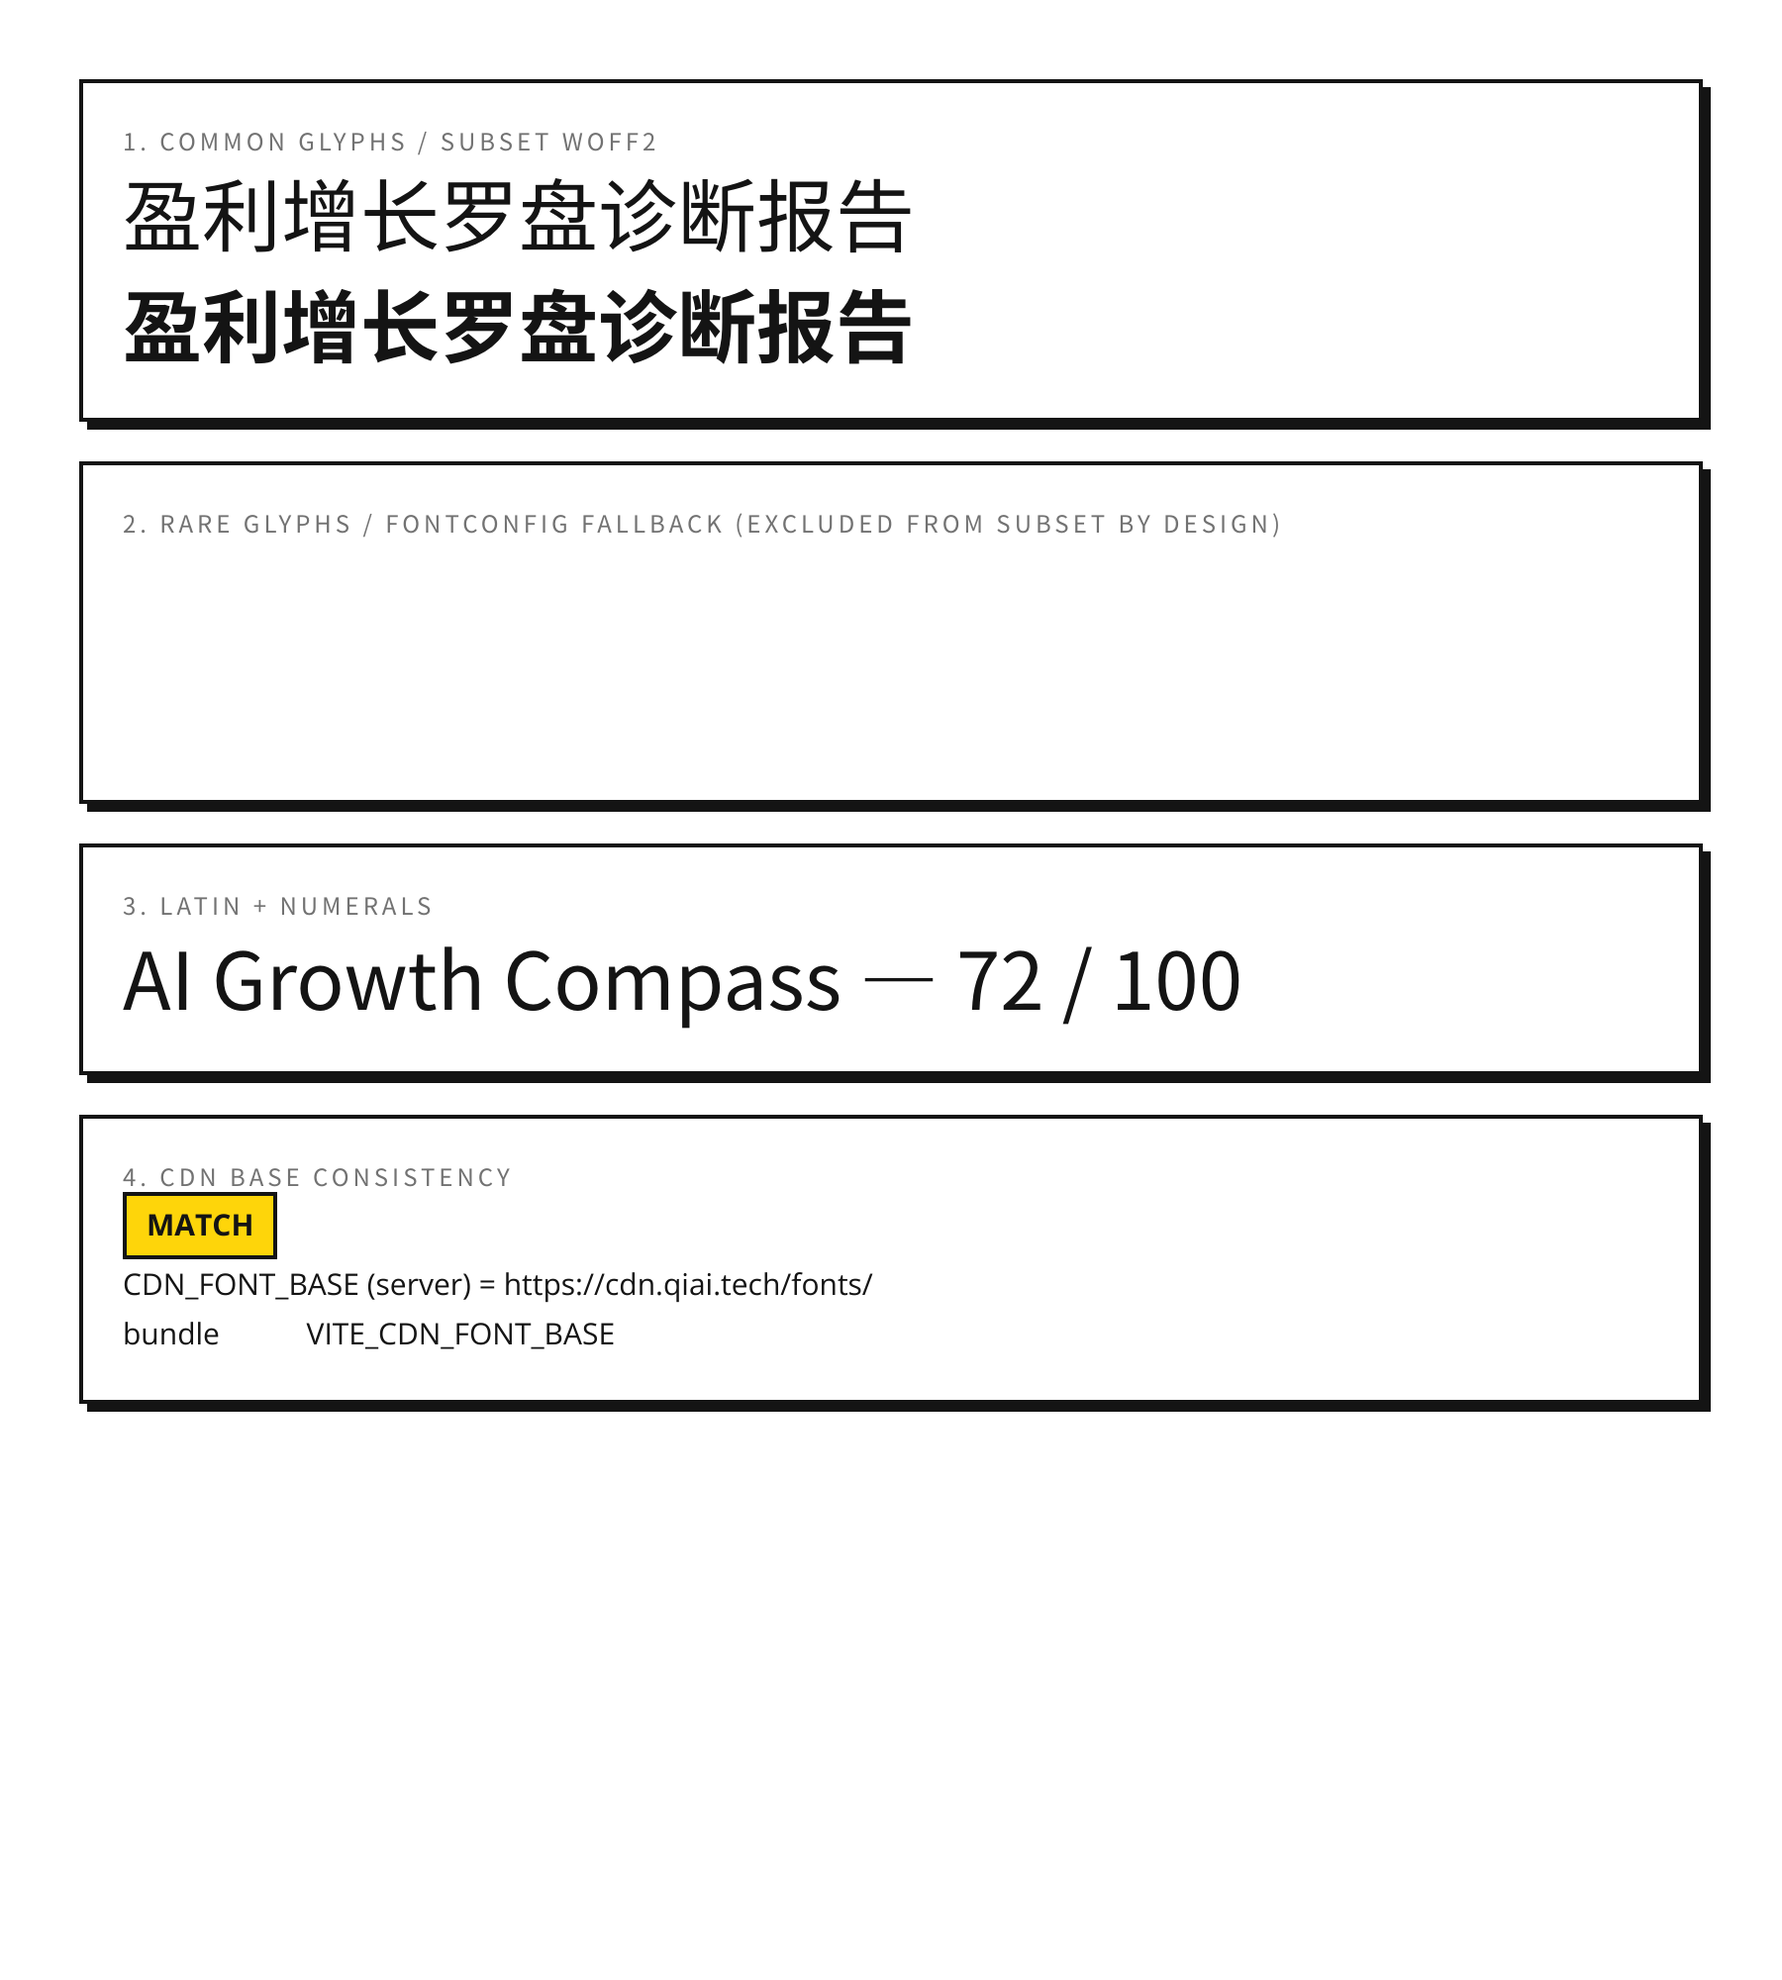
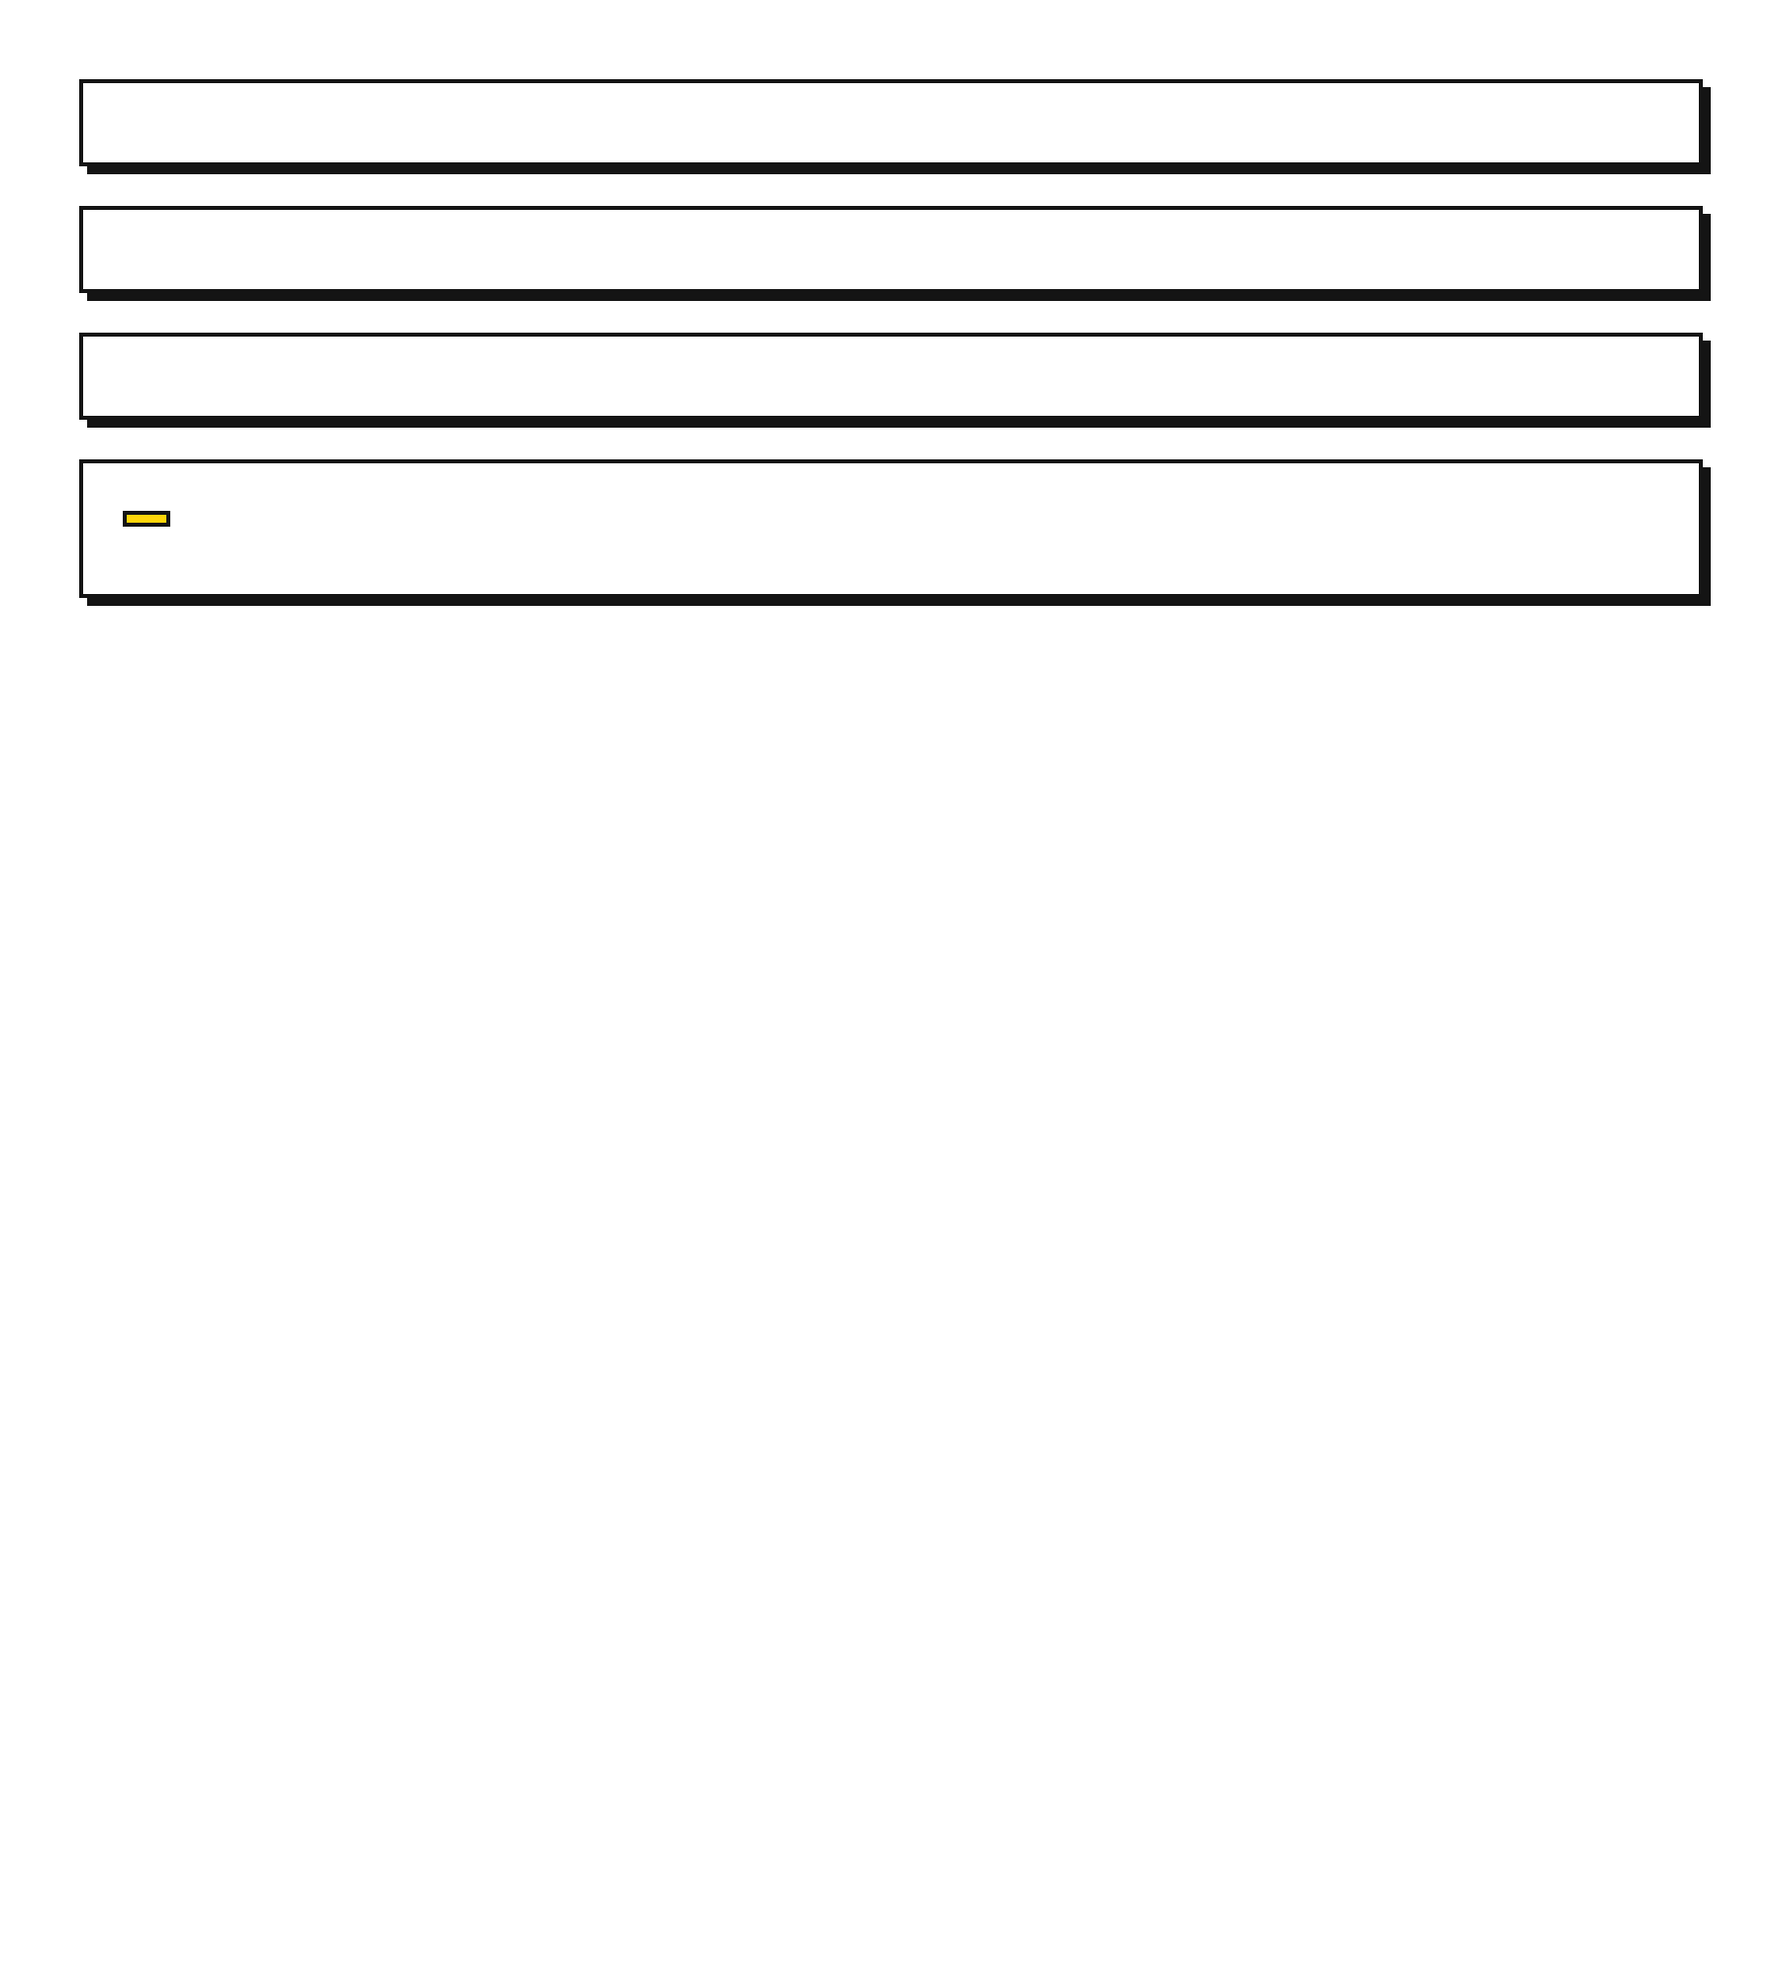
fix(fonts): install the fallback AFTER executablePath (my regression broke all fonts)
上一轮修完探针从「第 2 块空白」变成四块全空,连拉丁字母都没了——我引入的,比修之前严重。

根因不是清缓存,是 mkdirSync 抢跑。lambdafs.inflate() 解压 fonts.tar.br 的第一件事是
`if (existsSync('/tmp/fonts')) return resolve()` —— 目录已存在就整个跳过。而 fonts.tar.br
里装着 fonts.conf 本身与 Open_Sans 那套拉丁字形。上一版在 chromium.font() 阶段就
mkdirSync('/tmp/fonts'),早于 executablePath() 的解压 ⇒ fonts.conf 永远不落地 ⇒
FONTCONFIG_PATH 指向一个没有配置文件的目录 ⇒ fontconfig 一个字体目录都没有 ⇒ 全空。

这次回归印证了客户一条观察:第 1、3 块原来的正常渲染确实依赖 fontconfig(Open_Sans 提供
实际字形),不只是 CSS webfont——之前的理解不完整。

三处修:
1. 顺序:字体安装移到 executablePath() 之后,两个调用点都改。
2. 前提断言:installFallbackFont() 进来先检查 /tmp/fonts/fonts.conf 是否存在,不存在直接抛
   并说明「本函数被提前调用了」。与其静默弄坏整个字体子系统,不如在这里失败。
3. 不再清 fontconfig 缓存:不需要(fontconfig 发现 mtime 变化会自己重建索引),删 cachedir
   只增加「重建失败就全盘降级」的风险面。少做一件事。

日志现在打出 /tmp/fonts 在动它之前和之后的目录内容(客户要求的那两个时刻),下次异常一眼
能看出是「fonts.conf 在不在」还是「otf 复制成不成功」。

Node 206 / Deno 117,七道门全绿。

Changed region(s): [[0.0311, 0.248, 0.9644, 0.713], [0.0311, 0.062, 0.9644, 0.186], [0.1867, 0.589, 0.2178, 0.62]]

diff --git a/api/_lib/lambdaEnv.ts b/api/_lib/lambdaEnv.ts
@@ -79,15 +79,23 @@ export function assertChromiumEnvReady(): void {
 /**
  * 把中文兜底字体装进 **fontconfig 真的会扫的目录**,并校验落地。
  *
- * 【为什么不能只调 chromium.font()】它写到 `$HOME/.fonts/`(HOME 默认 `/tmp`),
- * 而这个包自带的 `fonts.conf`(bin/fonts.tar.br → /tmp/fonts/fonts.conf)只列:
- *     /var/task/.fonts  /var/task/fonts  /opt/fonts  /tmp/fonts
- * **没有 /tmp/.fonts。** 所以字体会「下载成功但从未被 fontconfig 索引」——
- * 实测症状:生僻字渲染成纯空白(不是方块),而常用字正常(那走的是页面 HTTP 加载的
- * subset woff2,与 fontconfig 无关)。空白比方块更难发现:它看起来只是排版稀疏一点。
+ * ⚠⚠ 【必须在 `chromium.executablePath()` 之后调用 —— 顺序是这个函数的正确性前提】
  *
- * 【为什么两个函数共用这一份】font-probe 与 render-pdf 走同一条路径,而 font-probe
- * 正是我们判断兜底层好坏的那把尺 —— 两份实现迟早只改一处。
+ * `lambdafs.inflate()` 解压 `fonts.tar.br` 时的第一件事是:
+ *     if (existsSync('/tmp/fonts')) return resolve();   // 目录已存在 ⇒ 整个跳过
+ * 而 `fonts.tar.br` 里装着 **`fonts.conf` 本身**(以及 Open_Sans 那套拉丁字形)。
+ *
+ * 上一版在 `chromium.font()` 阶段就 `mkdirSync('/tmp/fonts')`,而那**早于**
+ * `executablePath()` 的解压 —— 于是 `fonts.conf` 永远不会落地,`FONTCONFIG_PATH`
+ * 指向一个没有配置文件的目录,fontconfig 因此**一个字体目录都没有**。
+ * 实测症状:**四块全空**,连拉丁字母和 ASCII 标题都不见了(那些原本由 fonts.tar.br 里的
+ * Open_Sans 提供)。比修之前严重得多 —— 原来只是中文兜底层缺,后来是整个字体子系统没了。
+ *
+ * 【为什么不清 fontconfig 缓存】上一版还 `rmSync('/tmp/fonts-cache')`。不需要:
+ * fontconfig 发现目录 mtime 变化时会自己重建索引;而删掉 cachedir 只增加一个
+ * 「重建失败就全盘降级」的风险面。少做一件事。
+ *
+ * 【为什么复制而不是符号链接】fontconfig 扫目录时对 symlink 的处理依实现而异,复制没有歧义。
  *
  * @param fontUrl CDN 上的完整 otf URL
  * @param minBytes 最小可接受体积(那个 otf 是 8.3MB;明显偏小说明下载被截断或写了空文件)
@@ -96,35 +104,49 @@ export async function installFallbackFont(
   chromiumFont: (url: string) => Promise<unknown>,
   fontUrl: string,
   minBytes = 1_000_000,
-): Promise<{ path: string; bytes: number }> {
-  const { copyFileSync, existsSync, mkdirSync, statSync, rmSync } = await import('node:fs');
+): Promise<{ path: string; bytes: number; dirBefore: string[]; dirAfter: string[] }> {
+  const { copyFileSync, existsSync, mkdirSync, readdirSync, statSync } = await import('node:fs');
+
+  const fontDir = '/tmp/fonts'; // fonts.conf 里唯一可写的 /tmp 目录
+
+  /**
+   * 【前提校验:fonts.conf 必须已经在那里】它由 executablePath() 解压出来。
+   * 不在就说明本函数被提前调用了 —— 与其静默地把整个字体子系统弄坏,不如在这里就失败。
+   */
+  const dirBefore = existsSync(fontDir) ? readdirSync(fontDir) : [];
+  if (!existsSync(`${fontDir}/fonts.conf`)) {
+    throw new Error(
+      `installFallbackFont() called too early: ${fontDir}/fonts.conf is missing ` +
+        `(dir contents: ${JSON.stringify(dirBefore)}). ` +
+        'fonts.conf 由 chromium.executablePath() 解压 fonts.tar.br 得到,而 lambdafs 见到 ' +
+        '/tmp/fonts 已存在就整个跳过解压。所以本函数【必须】在 executablePath() 之后调用。',
+    );
+  }
 
   await chromiumFont(fontUrl);
 
   const fileName = fontUrl.split('/').pop() ?? 'fallback.otf';
   const downloadedAt = `${process.env.HOME ?? '/tmp'}/.fonts/${fileName}`;
-  const fontDir = '/tmp/fonts'; // fonts.conf 里唯一可写的 /tmp 目录
   const fontPath = `${fontDir}/${fileName}`;
 
   if (existsSync(downloadedAt) && !existsSync(fontPath)) {
     mkdirSync(fontDir, { recursive: true });
-    // 复制而不是符号链接:fontconfig 扫目录时对 symlink 的处理依实现而异,复制没有歧义
     copyFileSync(downloadedAt, fontPath);
-    // 目录内容变了,缓存要作废,否则可能沿用旧索引
-    rmSync('/tmp/fonts-cache', { recursive: true, force: true });
   }
 
   const stat = existsSync(fontPath) ? statSync(fontPath) : null;
+  const dirAfter = existsSync(fontDir) ? readdirSync(fontDir) : [];
   if (!stat || stat.size < minBytes) {
     throw new Error(
       `CJK fallback font not usable at ${fontPath}: ` +
         `${stat ? `size ${stat.size} bytes (expected >= ${minBytes})` : 'file does not exist'}. ` +
         `downloadedAt=${downloadedAt}(exists=${existsSync(downloadedAt)}), ` +
         `FONTCONFIG_PATH=${process.env.FONTCONFIG_PATH ?? '(unset)'}, HOME=${process.env.HOME ?? '(unset)'}, ` +
-        `url=${fontUrl}。fonts.conf 只扫 /var/task/.fonts、/var/task/fonts、/opt/fonts、/tmp/fonts —— ` +
+        `dirBefore=${JSON.stringify(dirBefore)}, dirAfter=${JSON.stringify(dirAfter)}, url=${fontUrl}。` +
+        `fonts.conf 只扫 /var/task/.fonts、/var/task/fonts、/opt/fonts、/tmp/fonts —— ` +
         `不含 chromium.font() 的落点 /tmp/.fonts,所以必须复制过去。` +
         `兜底层不可用时生僻字会渲染成纯空白,宁可在这里失败,也不要出一份姓名看不见的报告。`,
     );
   }
-  return { path: fontPath, bytes: stat.size };
+  return { path: fontPath, bytes: stat.size, dirBefore, dirAfter };
 }

diff --git a/api/render-pdf.ts b/api/render-pdf.ts
@@ -154,11 +154,6 @@ async function renderReport(sessionId: string): Promise<RenderOutcome> {
    * 残留文件(它见到 existsSync 就直接 resolve,不校验大小)都会让兜底层静默失效。
    * 实测症状:生僻字渲染成【纯空白】—— 容器里没有任何字体覆盖那些码位。
    */
-  const font = await installFallbackFont(
-    (u) => chromium.font(u),
-    `${env('CDN_FONT_BASE').replace(/\/$/, '')}/NotoSansSC-Regular.otf`,
-  );
-  console.log(`CJK fallback font ready: ${font.path} (${font.bytes} bytes)`);
 
   /**
    * 【开浏览器之前先直接问一次 API —— 把两件事分开】
@@ -204,7 +199,22 @@ async function renderReport(sessionId: string): Promise<RenderOutcome> {
    */
   assertChromiumEnvReady();
 
+  /**
+   * 【顺序:先 executablePath(),再装字体】executablePath() 会解压 fonts.tar.br 到
+   * /tmp/fonts —— 里面装着 fonts.conf 本身与 Open_Sans。而 lambdafs 见到 /tmp/fonts
+   * 已存在就整个跳过解压,所以任何提前创建那个目录的动作都会让 fontconfig 一个字体都没有
+   * (实测:四块全空,连拉丁字母都没了)。installFallbackFont 会断言 fonts.conf 已存在。
+   */
   const execPath = await chromium.executablePath();
+
+  const font = await installFallbackFont(
+    (u) => chromium.font(u),
+    `${env('CDN_FONT_BASE').replace(/\/$/, '')}/NotoSansSC-Regular.otf`,
+  );
+  console.log(
+    `CJK fallback font ready: ${font.path} (${font.bytes} bytes). ` +
+      `/tmp/fonts before=${JSON.stringify(font.dirBefore)} after=${JSON.stringify(font.dirAfter)}`,
+  );
   let browser;
   try {
     browser = await puppeteer.launch({

diff --git a/api/font-probe.ts b/api/font-probe.ts
@@ -164,13 +164,22 @@ export default async function handler(req: VercelRequest, res: VercelResponse) {
   try {
     // 系统级中文兜底:fontconfig 认 otf / ttf,不认 woff2
     assertChromiumEnvReady();
-    // 与 render-pdf 共用一份:下载 + 复制进 fontconfig 真的会扫的目录 + 校验落地
+
+    /**
+     * 顺序要紧:先 executablePath()(它解压 fonts.tar.br → /tmp/fonts,里面有 fonts.conf
+     * 与 Open_Sans),再装中文兜底字体。提前创建 /tmp/fonts 会让 lambdafs 跳过解压,
+     * fontconfig 就一个字体都没有。见 api/_lib/lambdaEnv.ts。
+     */
+    const execPath = await chromium.executablePath();
     const font = await installFallbackFont((u) => chromium.font(u), `${cdnBase()}NotoSansSC-Regular.otf`);
-    console.log(`CJK fallback font ready: ${font.path} (${font.bytes} bytes)`);
+    console.log(
+      `CJK fallback font ready: ${font.path} (${font.bytes} bytes). ` +
+        `/tmp/fonts before=${JSON.stringify(font.dirBefore)} after=${JSON.stringify(font.dirAfter)}`,
+    );
 
     browser = await puppeteer.launch({
       args: chromium.args,
-      executablePath: await chromium.executablePath(),
+      executablePath: execPath,
       headless: true,
     });
 

diff --git a/PROGRESS.md b/PROGRESS.md
@@ -2605,6 +2605,48 @@ Node 206 / Deno 117,七道门全绿。
 
 ---
 
+# 我引入的回归:提前创建 /tmp/fonts 让整个字体子系统失效
+
+上一轮修完,探针从「第 2 块空白」变成**四块全空** —— 连拉丁字母和 ASCII 标题都没了。
+**是我引入的,比修之前严重得多。**
+
+## 根因:`mkdirSync` 抢跑,不是清缓存
+
+`lambdafs.inflate()` 解压 `fonts.tar.br` 的第一件事:
+
+```js
+if (existsSync(output) === true) return resolve(output);   // 目录已存在 ⇒ 整个跳过
+```
+
+而 `fonts.tar.br` 里装着 **`fonts.conf` 本身** 以及 **Open_Sans 那套拉丁字形**。
+
+上一版在 `chromium.font()` 阶段就 `mkdirSync('/tmp/fonts')`,而那**早于**
+`executablePath()` 的解压 ⇒ `fonts.conf` 永远不落地 ⇒ `FONTCONFIG_PATH` 指向一个没有配置
+文件的目录 ⇒ **fontconfig 一个字体目录都没有** ⇒ 所有文本(含拉丁)全空。
+
+客户怀疑是清缓存那步 —— **不是**,`rmSync` 只是次要风险面;主因是顺序。
+
+## 这次回归印证了客户的一条观察
+
+第 1、3 块原来的正常渲染**确实依赖 fontconfig**(Open_Sans 提供实际字形),不只是 CSS
+webfont。之前我们以为第 1 块只走页面 HTTP 加载的 subset woff2 —— 那个理解不完整。
+
+## 修法(三处)
+
+1. **顺序**:字体安装移到 `chromium.executablePath()` **之后**。两个调用点(render-pdf 与
+   font-probe)都改。
+2. **前提断言**:`installFallbackFont()` 一进来就检查 `/tmp/fonts/fonts.conf` 是否存在,
+   不存在直接抛并说明「本函数被提前调用了」。与其静默弄坏整个字体子系统,不如在这里失败。
+3. **不再清 fontconfig 缓存**:不需要 —— fontconfig 发现目录 mtime 变化会自己重建索引;
+   删 cachedir 只增加一个「重建失败就全盘降级」的风险面。**少做一件事。**
+
+顺带:日志现在打出 `/tmp/fonts` 在动它**之前和之后**的目录内容(客户要求的那两个时刻),
+下次异常一眼能看出是「fonts.conf 在不在」还是「otf 复制成不成功」。
+
+Node 206 / Deno 117,七道门全绿。
+
+---
+
 ## 变更日志
 
 - 2026-07-31 — rev1 初稿
